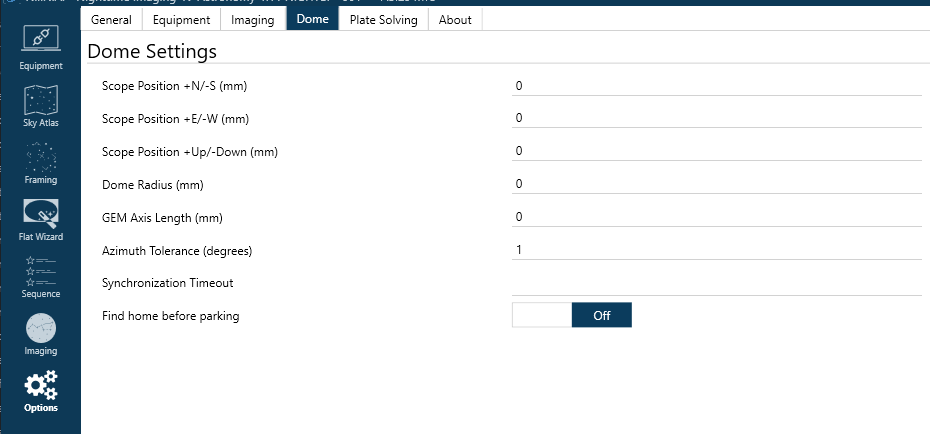
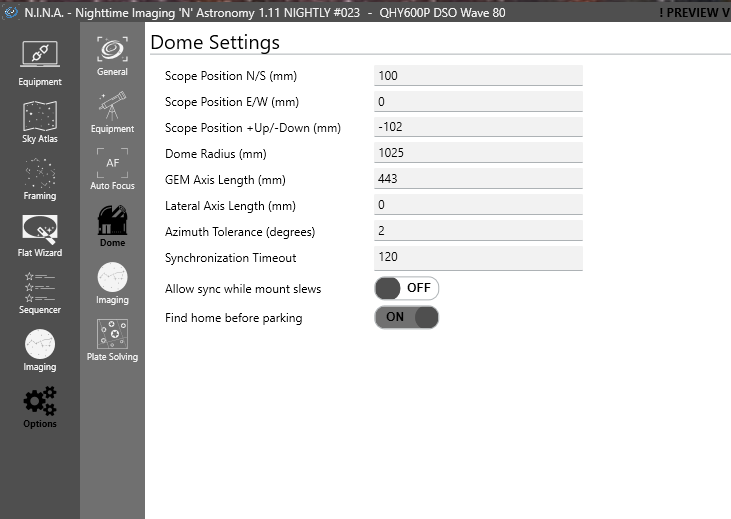
Merged in ghilios/dome_update (pull request #34)
Update Dome documentation to reflect latest state

* Update Dome documentation to reflect latest state

diff --git a/docs/tabs/options/dome.md b/docs/tabs/options/dome.md
@@ -6,7 +6,7 @@ This is the tab where you set up all the parameters related to your dome.
 <br/>Measure the North or South offset (in mm) of the center of the mount from the center of the dome. North is true north - the same direction a polar aligned telescope would point. Use a positive number for North, and a negative number for South.
 
 2. **Scope Position +E/-W (mm)**
-<br/>Measure the East or West offset (in mm) of the center of the mount from the center of the dome. East/West is relative to true north - the same direction a polar aligned telescope would point. Use a positive number for East, and a negative number for West.
+<br/>Measure the East or West offset (in mm) of the center of the mount from the center of the dome. East/West is relative to true north - the same direction a polar aligned telescope would point in the northern hemisphere. Use a positive number for East, and a negative number for West.
 
 3. **Scope Position +Up/-Down (mm)**
 <br/>Measure the height difference (in mm) of the center of the mount axis relative to the base of the dome. For an Alt/Az mount, this is from the center of the Altitude axis, and for an EQ mount this is where the RA and DEC axes intersect. A positive number indicates the center of axis is higher than the base of the dome, and a negative number means it is lower.
@@ -20,16 +20,22 @@ This is the tab where you set up all the parameters related to your dome.
     !!! note
         The purpose of this setting is to determine what should point to the center of the Dome aperture. If you have a guide scope, you should add half the length from the OTA to the top of the guide scope. For example, if the guide scope mount is 40mm and the guide scope aperture is 60mm, you should add 70mm to **GEM Axis Length**.
 
-6. **Azimuth Tolerance (degrees)**
+6. **Lateral axis length (mm)**
+<br/>If you have a dual saddle with side-by-side OTAs, this setting specifies offset (in mm) of the center of the OTA from the mount axis. Use a positive number for offsets to the right relative to the RA and DEC axis.
+
+7. **Azimuth Tolerance (degrees)**
 <br/>The Dome slews if the target azimuth is off by more than this amount. Some dome rotators have a maximum precision, so you should set this either at that precision or greater. For example, NexDome could only support 1 degree of resolution when slewing until mid-2020 when high precision slewing was added.
 
-7. **Synchronization Timeout**
+8. **Synchronization Timeout**
 <br/>Actions that require an image to be taken (such as Plate Solving and Auto Focusing) depend on the dome being synchronized with the mount. If <i>Dome follows telescope</i> is enabled, imaging operations will wait until the Telescope has stopped slewing **and** the Dome is pointed to the same azimuth (within the configured tolerance). This settings specifies the maximum amount of time, in seconds, to wait for this synchronization to complete.
 
     !!! important
         This value should be no smaller than twice the precision of the Dome rotator. For example, NexDome can only slew to integer granularity, which means its precision is 1 degree. If you own a NexDome, don't set this value smaller than 2 or **Wait for Dome Synchronization** will delay periodically.
 
-8. **Find Home Before Parking**
+9. **Allow sync while mount slews**
+<br/>When an external application or the handset slews the mount, dome synchronization will wait for the mount to stop before it rotates the dome. Turning this option on allows dome synchronization to chase the mount. If rotation is fast, you may prefer to turn this on.
+
+10. **Find Home Before Parking**
 <br/>This is an innovative reliability feature. Some Domes, such as NexDome, require the Park location to be precise so that a battery powering the shutter motor can recharge. If this setting is enabled, the Dome will find the Home position (if the Dome provides one) before parking and closing the shutter. This resynchronizes the Dome azimuth to increase Park accuracy.
 
     !!! note

diff --git a/docs/tabs/equipment/dome.md b/docs/tabs/equipment/dome.md
@@ -6,7 +6,7 @@ N.I.N.A. provides some useful capabilities when connected to a Dome. They includ
 1. **Telescope Following**
 <br/>When a Telescope is connected, enabling *Dome follows telescope* ensures that the Dome azimuth (where the opening of a Dome is) is centered wherever the Telescope is pointed. This covers several different cases:
       * *Tracking* - As the telescope follows the rotation of the Earth, the Dome stays in sync with it.
-      * *External Slew* - If a program other than N.I.N.A. slews the telescope, then the Dome will rotate until the telescope stops and they are lined back up. This movement can be jerky however - some Domes (such as NexDome) don't allow changing the destination azimuth while it is rotating, so N.I.N.A. repeatedly sends slew commands based on wherever the telescope is pointing at the time.
+      * *External Slew* - If a program other than N.I.N.A. slews the telescope, then the Dome will rotate until the telescope stops and they are lined back up. This movement can be jerky however - some Domes (such as NexDome) don't allow changing the destination azimuth while it is rotating, so N.I.N.A. repeatedly sends slew commands based on wherever the telescope is pointing at the time. <i>You can disable this behavior in the Options tab.</i>
       * *N.I.N.A. Slew* - If N.I.N.A. issues a slew command to the telescope (such as from the Framing Wizard), then the Dome will go directly to the target azimuth that would be in sync with the telescope at its destination.
 
 2. **Find Home Before Park**
@@ -16,7 +16,10 @@ N.I.N.A. provides some useful capabilities when connected to a Dome. They includ
 <br/>When the telescope moves, the Dome typically needs extra time to follow it and re-synchronize their azimuths. N.I.N.A. waits until the telescope stops slewing *and* the Dome is synchronized with it before starting operations that take images (such as Plate Solving and Auto Focus).
 
 4. **Manual Shutter Control**
-<br/>The Dome shutter can be directly opened and closed.
+<br/>The Dome shutter can be directly opened and closed, and the dome can be rotated either directly to an azimuth or in configurable increments.
 
     !!! note
-        There is no manual rotation control. Unfortunately, the ASCOM standard doesn't provide operations that would make this possible without jerky behavior, such as rotating 10 degrees at a time.
+        There is no rotation control where you hold a button until you're where you want to be. Unfortunately, the ASCOM standard doesn't provide operations that would make this possible.
+
+5. **Sync Azimuth**
+<br/> Sometimes the dome rotation can get off a few degrees - for example if a gear slips or there aren't exactly the right number of gear teeth. If your dome supports "Sync Azimuth", then a "Sync" button will be available in the lower left corner that sets the dome azimuth to wherever the telescope is currently pointing. You'd use this by manually lining up the dome with the telescope before syncing. You should not have Dome Synchronization enabled while you do this, but you can turn it back on right afterwards.
